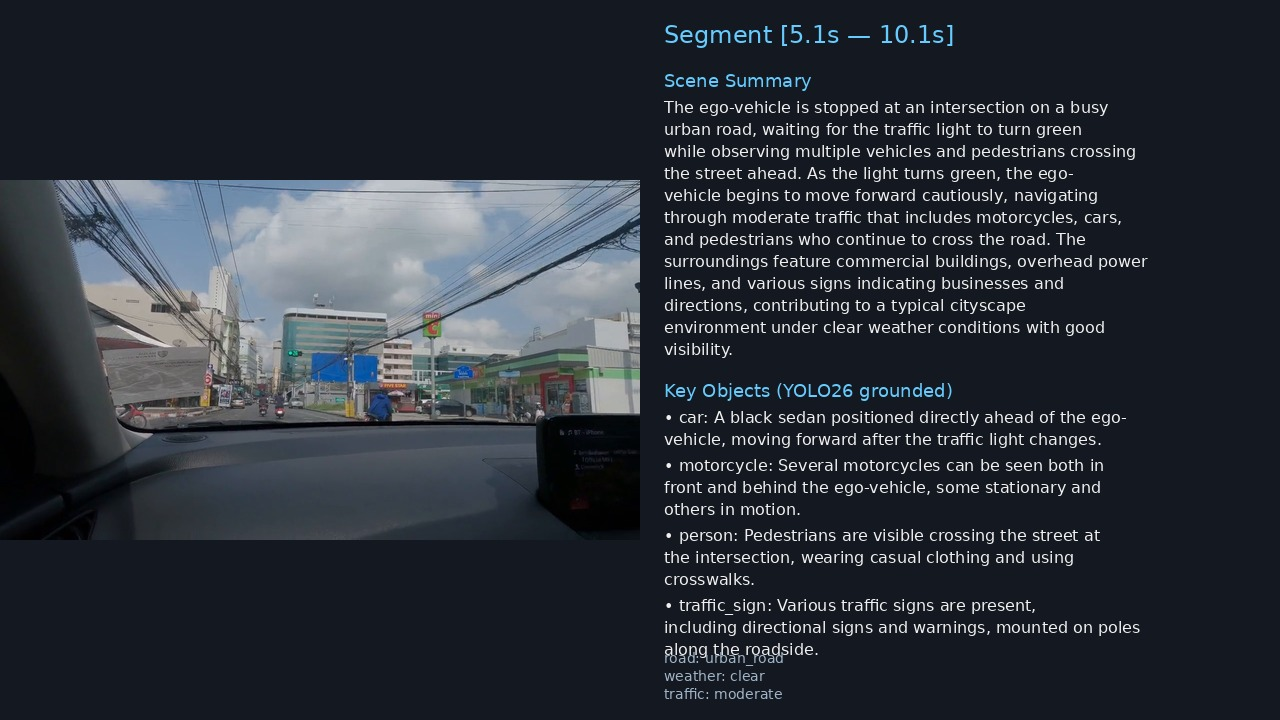
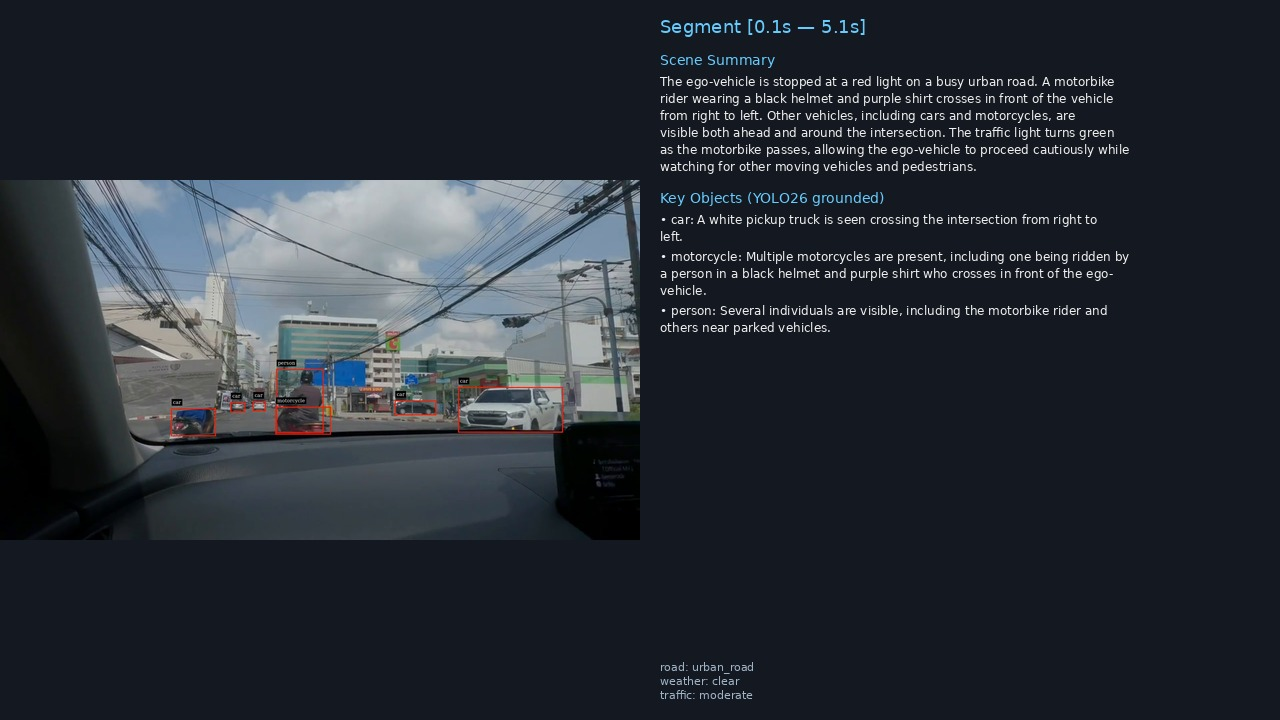
Fix: Dockerfile uses requirements.txt, regen desc images, pin versions
README
- Remove stale ![Pipeline](assets/images/pipeline.png) reference (the
  PNG was deleted pre-release).
- Soften the first-of-kind claim (drop the "we are aware of" hedge and
  the prior-art-check footnote).

Visualisations
- assets/images/desc1-3.jpg regenerated from the YOLO26 + OSD pipeline
  (results/pipeline_C_yolo26_osd.mp4) so the frame on the left already
  shows the YOLO bounding boxes that the VLM was grounded on.
- Segments chosen: 0 (red light, 3 risks), 1 (6 key objects), 5
  (cruising with 4 objects) for visual diversity.
- gen_desc_visuals.py: font sizes dropped (title 24→18, header 18→14,
  body 16→12, footer 14→11), wrap width loosened to 78, spacing
  tightened so the summary fits without clipping.

Dockerfile
- Previously the RUN `pip install vllm==0.14.0 kafka-python PyYAML
  Pillow` line ignored requirements.txt entirely and missed every
  detector-export and test dep (ultralytics/onnx/onnxslim/onnxscript/
  opencv/pytest etc.). Rewrite to COPY + `pip install -r
  requirements.txt`.
- Add ffmpeg, fonts-dejavu-core (gen_desc_visuals.py) and
  build-essential (needed to rebuild lib/*.so against TRT 10 / CUDA 13
  when the packaged binary is stale).

requirements.txt
- Expanded and pinned to the reference container's exact versions
  (vllm 0.14.0, ultralytics 8.4.39, onnx 1.21.0, onnxslim 0.1.91,
  onnxscript 0.6.2, onnx-ir 0.2.0, opencv-headless 4.13.0.92,
  pytest 9.0.2, pytest-mock 3.15.1, pytest-cov 7.1.0, Pillow 12.2.0,
[…]

diff --git a/scripts/gen_desc_visuals.py b/scripts/gen_desc_visuals.py
@@ -71,48 +71,48 @@ def _render_text_panel(parsed: dict, start: float, end: float) -> Image.Image:
     panel = Image.new("RGB", (PANEL_W, PANEL_H), BG)
     draw = ImageDraw.Draw(panel)
 
-    title_font = _find_font(24)
-    header_font = _find_font(18)
-    body_font = _find_font(16)
+    title_font = _find_font(18)
+    header_font = _find_font(14)
+    body_font = _find_font(12)
+    footer_font = _find_font(11)
 
     # Header line: segment timing
-    draw.text((24, 20), f"Segment [{start:.1f}s — {end:.1f}s]", fill=ACCENT, font=title_font)
+    draw.text((20, 16), f"Segment [{start:.1f}s — {end:.1f}s]", fill=ACCENT, font=title_font)
 
-    y = 70
+    y = 52
     # Scene summary (wrapped)
-    draw.text((24, y), "Scene Summary", fill=ACCENT, font=header_font)
-    y += 28
+    draw.text((20, y), "Scene Summary", fill=ACCENT, font=header_font)
+    y += 22
     summary = parsed.get("scene_summary", "(no summary)")
-    for line in textwrap.wrap(summary, width=58):
-        draw.text((24, y), line, fill=TEXT_FG, font=body_font)
-        y += 22
-    y += 18
+    for line in textwrap.wrap(summary, width=78):
+        draw.text((20, y), line, fill=TEXT_FG, font=body_font)
+        y += 17
+    y += 14
 
     # Key objects (top N)
-    draw.text((24, y), "Key Objects (YOLO26 grounded)", fill=ACCENT, font=header_font)
-    y += 28
-    for obj in (parsed.get("key_objects") or [])[:4]:
+    draw.text((20, y), "Key Objects (YOLO26 grounded)", fill=ACCENT, font=header_font)
+    y += 22
+    for obj in (parsed.get("key_objects") or [])[:5]:
         t = obj.get("type", "object")
         desc = obj.get("description", "")
         line = f"• {t}: {desc}"
-        for wrapped in textwrap.wrap(line, width=58):
-            draw.text((24, y), wrapped, fill=TEXT_FG, font=body_font)
-            y += 22
-        y += 4
+        for wrapped in textwrap.wrap(line, width=78):
+            draw.text((20, y), wrapped, fill=TEXT_FG, font=body_font)
+            y += 17
+        y += 3
 
     # Road + weather small footer
-    y = PANEL_H - 70
+    y = PANEL_H - 60
     road = parsed.get("road_type", "")
     weather = parsed.get("weather", "")
     traffic = parsed.get("traffic_density", "")
-    footer_font = _find_font(14)
     parts = [
         p
         for p in [f"road: {road}", f"weather: {weather}", f"traffic: {traffic}"]
         if p.split(": ")[1]
     ]
     for i, p in enumerate(parts):
-        draw.text((24, y + i * 18), p, fill=(160, 180, 200), font=footer_font)
+        draw.text((20, y + i * 14), p, fill=(160, 180, 200), font=footer_font)
     return panel
 
 

diff --git a/tests/e2e/test_full_pipeline.py b/tests/e2e/test_full_pipeline.py
@@ -23,7 +23,6 @@ import pytest
 WORKSPACE = Path("/workspace")
 MAIN_PY = WORKSPACE / "main.py"
 SAMPLE_MP4 = WORKSPACE / "assets" / "videos" / "sample.mp4"
-SAMPLE_DETECT_MP4 = WORKSPACE / "assets" / "videos" / "sample_detect.mp4"
 CONFIG_DRIVING = WORKSPACE / "configs" / "config_driving_scene.yaml"
 CONFIG_DETECT = WORKSPACE / "configs" / "config_driving_scene_with_detect.yaml"
 
@@ -116,7 +115,7 @@ class TestDetectModePipeline:
     def test_detect_dry_run_exits_zero(self, tmp_path):
         """VLM+Detect pipeline with --dry-run completes without error."""
         result = _run_pipeline(
-            str(SAMPLE_DETECT_MP4),
+            str(SAMPLE_MP4),
             "-c",
             str(CONFIG_DETECT),
             "--detect",
@@ -130,7 +129,7 @@ class TestDetectModePipeline:
         """Detect mode --output creates a JSON results file."""
         out = tmp_path / "output_detect.json"
         _run_pipeline(
-            str(SAMPLE_DETECT_MP4),
+            str(SAMPLE_MP4),
             "-c",
             str(CONFIG_DETECT),
             "--detect",

diff --git a/README.md b/README.md
@@ -2,7 +2,7 @@
 
 > Real-time video understanding pipeline powered by **NVIDIA DeepStream 9.0** and **Cosmos-Reason2-8B** Vision Language Model, with optional open-vocabulary object grounding via **YOLOE**.
 
-> **First public open-source example we are aware of** that combines `DeepStream + YOLOE (open-vocabulary detection/segmentation) + a VLM` in a single GStreamer pipeline. Prior art check: no repo found on GitHub/Google matching this combination.
+> **First open-source example** that combines `DeepStream + YOLOE (open-vocabulary detection/segmentation) + a VLM` in a single GStreamer pipeline.
 
 ---
 
@@ -28,8 +28,6 @@ uridecodebin → nvstreammux → [nvinfer(YOLO)] → nvvideoconvert → nvvllmvl
                     into VLM user_prompt                  (+ optional OSD MP4)
 ```
 
-![Pipeline](assets/images/pipeline.png)
-
 ---
 
 ## Sample output
@@ -44,7 +42,7 @@ Left: middle frame of a 5-second segment. Right: VLM scene summary + YOLO-ground
 
 ---
 
-## Quick start (0 → 100)
+## Quickstart
 
 Prerequisites: Docker w/ NVIDIA Container Toolkit, NVIDIA driver 580+, an RTX 4090 or equivalent Ada/Ampere GPU (≥24 GB VRAM), an [NGC API key](https://ngc.nvidia.com) for the FP8 VLM checkpoint download.
 
